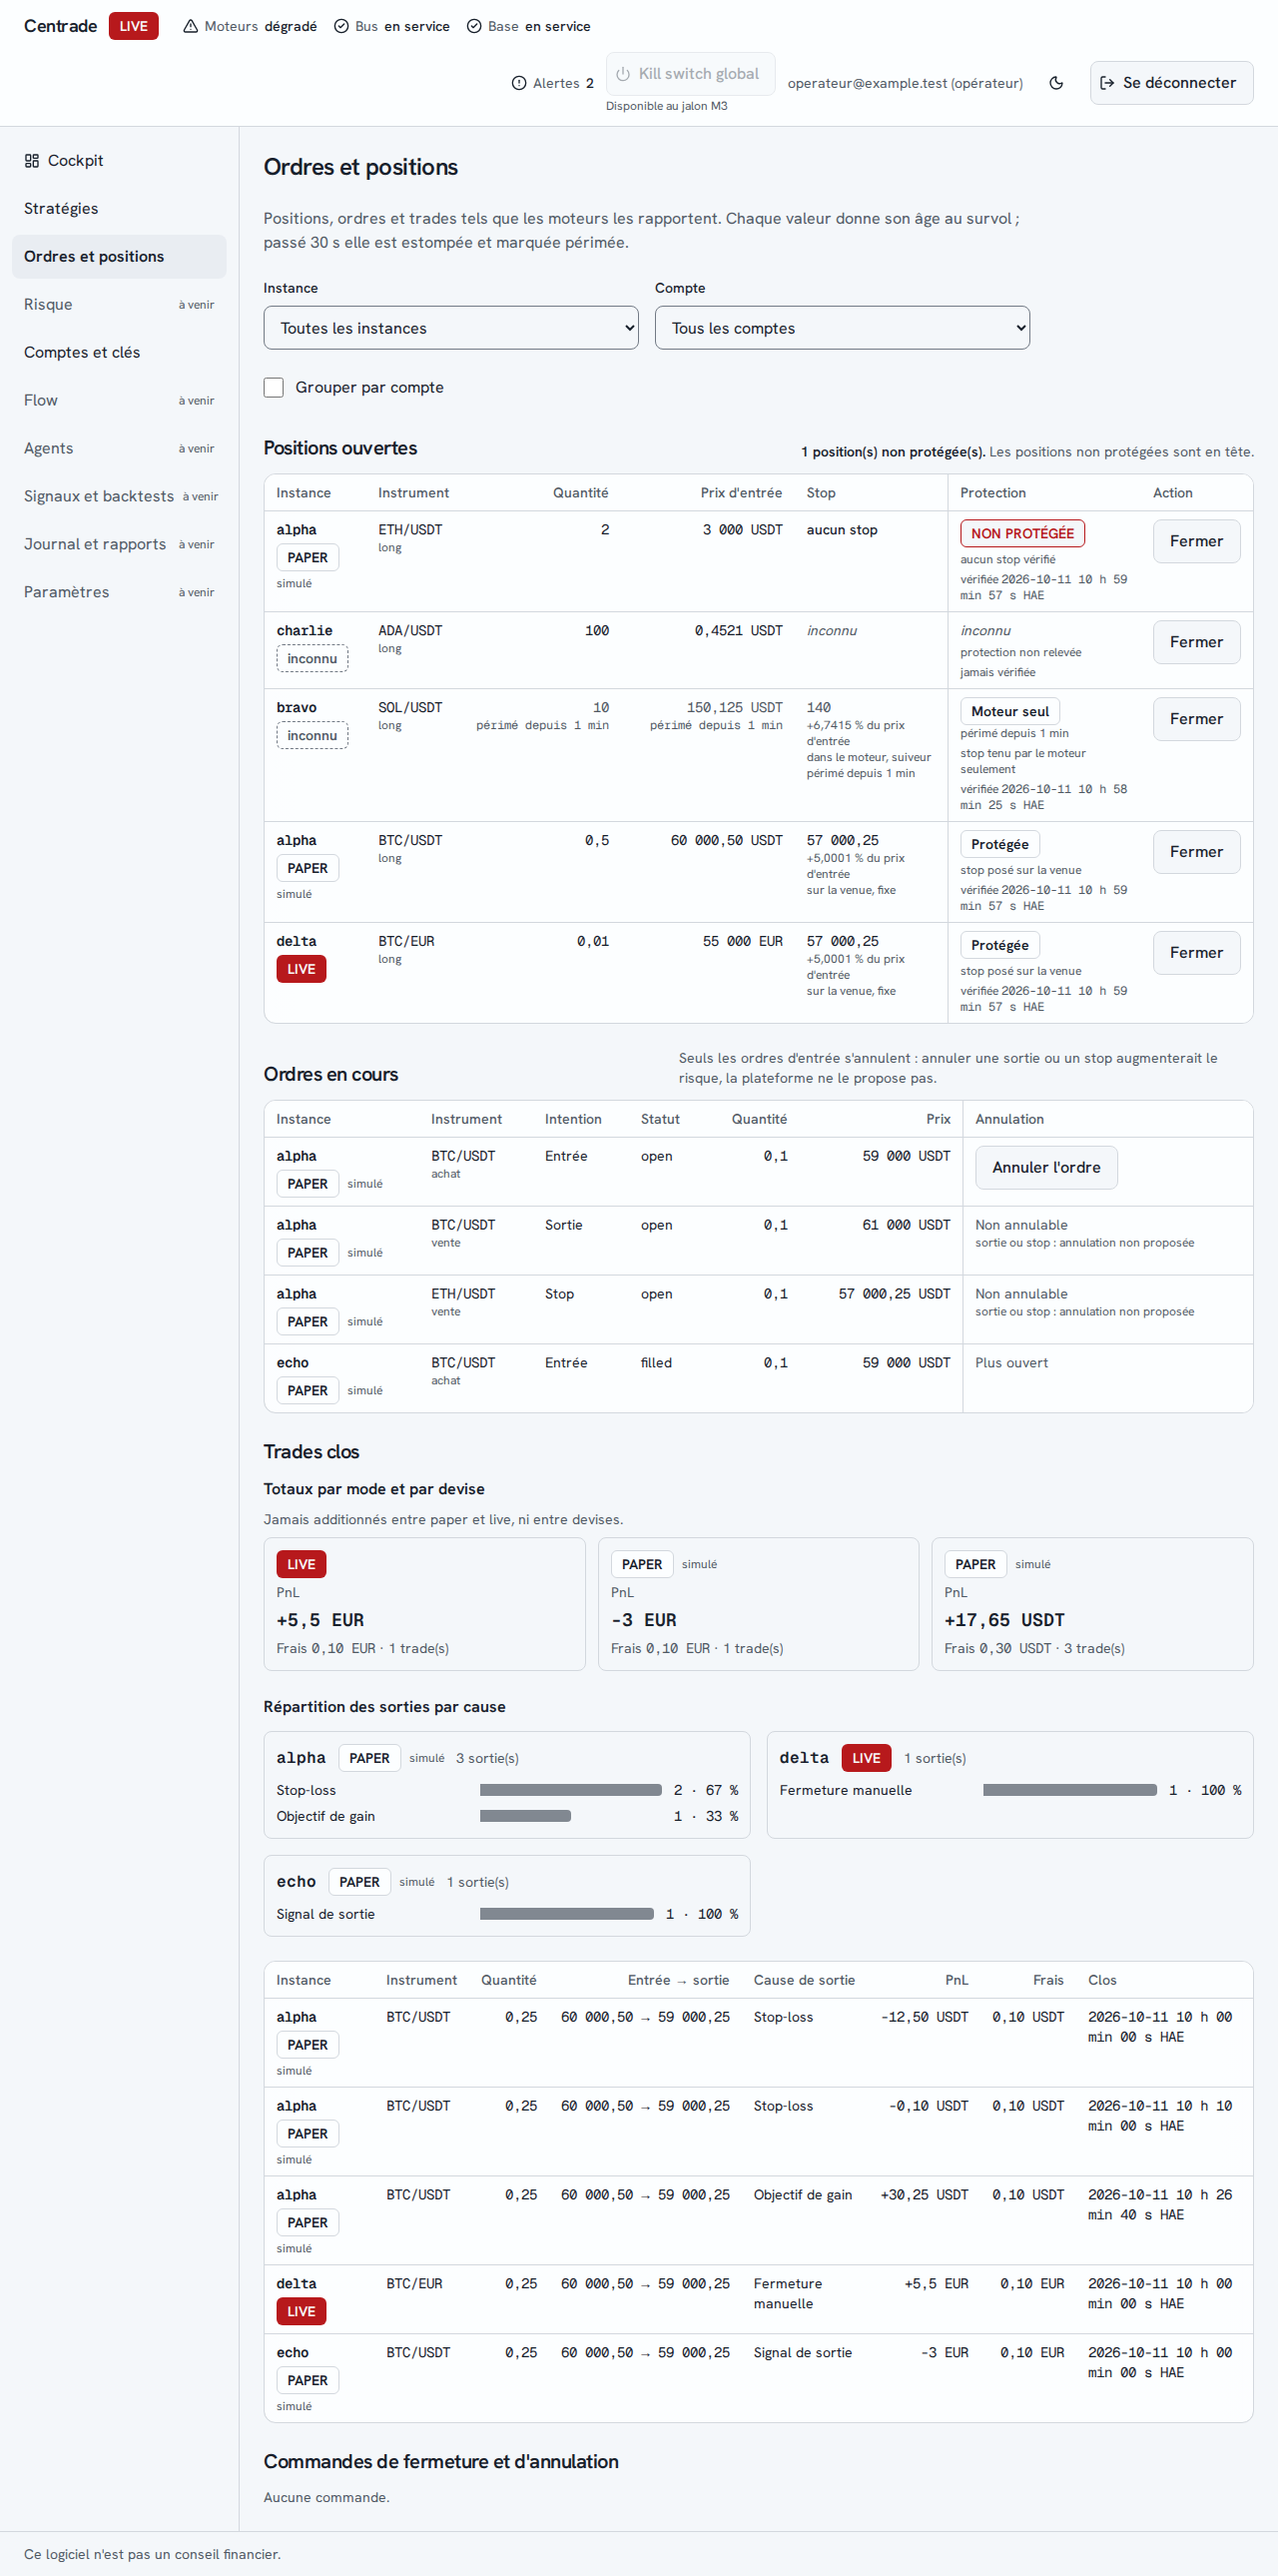
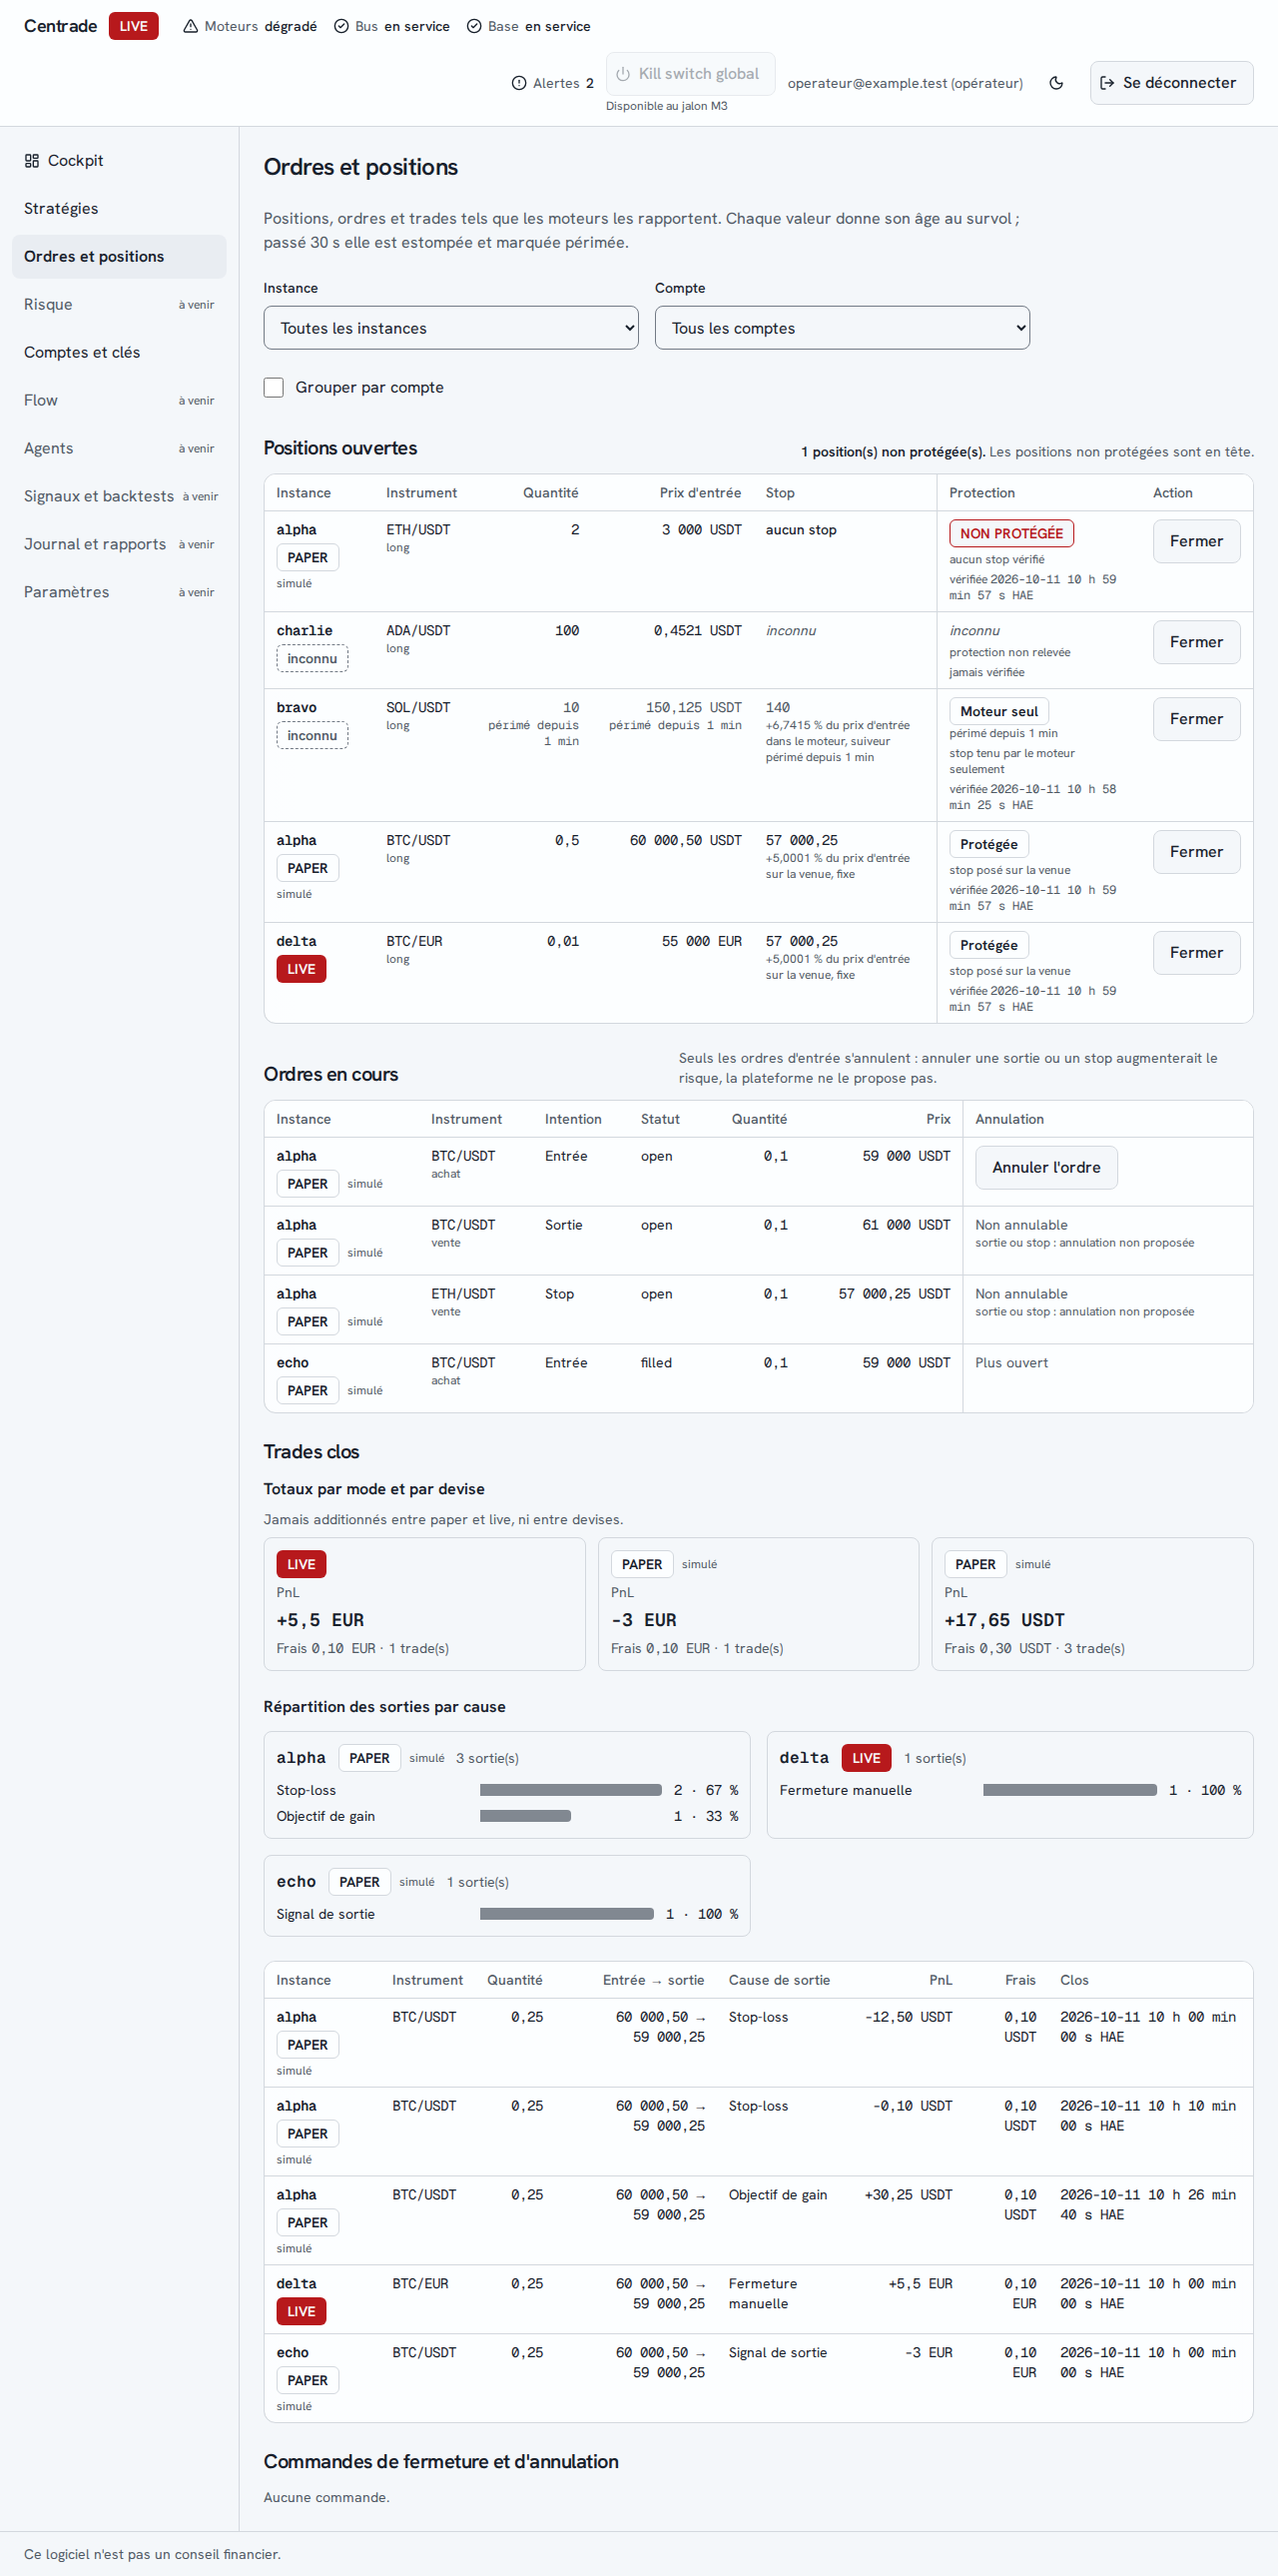
fix(m2): aucun montant ni devise coupé dans les tableaux en tablette

diff --git a/apps/web/src/screens/orders/positions-table.tsx b/apps/web/src/screens/orders/positions-table.tsx
@@ -11,7 +11,7 @@ import { InstanceCell, num, Ts } from "./cells";
 const t = fr.orders.positions;
 // L'état de protection et la fermeture ne sortent jamais du champ : ces colonnes restent collées à droite quand le tableau défile.
 const PIN = "sticky z-[1] bg-card";
-const PROT = `${PIN} min-w-44 border-l`;
+const PROT = `${PIN} min-w-36 border-l`;
 
 function Protection({ p, nowIso }: { p: Position; nowIso: string }) {
   // Une position non protégée s'affiche toujours : l'alarme n'est jamais estompée ni masquée par l'âge.
@@ -88,14 +88,14 @@ export function PositionsTable({
   onClose: (p: Position) => void;
 }) {
   return (
-    <TableShell label={t.list} dimmed={dimmed} minWidth="min-w-[46rem]">
+    <TableShell label={t.list} dimmed={dimmed} minWidth="min-w-0">
       <thead className={THEAD}>
         <tr>
           <th scope="col" className={TH}>{t.columns.instance}</th>
           <th scope="col" className={TH}>{t.columns.instrument}</th>
           <th scope="col" className={THR}>{t.columns.quantity}</th>
           <th scope="col" className={THR}>{t.columns.entry}</th>
-          <th scope="col" className={`${TH} min-w-32`}>{t.columns.stop}</th>
+          <th scope="col" className={`${TH} min-w-28`}>{t.columns.stop}</th>
           <th scope="col" className={`${TH} ${PROT} ${canAct ? "right-28" : "right-0"}`}>{t.columns.protection}</th>
           {canAct && <th scope="col" className={`${TH} ${PIN} right-0 w-28`}>{t.columns.action}</th>}
         </tr>
@@ -116,7 +116,7 @@ export function PositionsTable({
                 <ObservedValue mono value={num(p.quantity)} observedAt={p.observed_at} serverTime={nowIso} staleAfterMs={ENGINE_STALE_MS} className="justify-end" />
               </td>
               <td className={TDR}>
-                <ObservedValue mono value={p.entry_price === null ? "unknown" : `${num(p.entry_price)}\u00a0${p.currency}`} observedAt={p.observed_at} serverTime={nowIso} staleAfterMs={ENGINE_STALE_MS} className="justify-end" />
+                <ObservedValue mono value={p.entry_price === null ? "unknown" : `${num(p.entry_price)} ${p.currency}`} observedAt={p.observed_at} serverTime={nowIso} staleAfterMs={ENGINE_STALE_MS} className="justify-end" />
               </td>
               <td className={TD}>
                 <Stop p={p} nowIso={nowIso} />

diff --git a/apps/web/e2e/orders.spec.ts b/apps/web/e2e/orders.spec.ts
@@ -292,3 +292,25 @@ test("bureau (1280 px) : aucune position coupée, le tableau des trades tient da
   const trades = page.locator('[role="region"]').filter({ has: page.locator("tr[data-trade]") });
   expect(await trades.first().evaluate((el) => el.scrollWidth - el.clientWidth)).toBeLessThanOrEqual(0);
 });
+
+test("tablette (820 px) : aucun montant, prix ou devise coupé ; les trois tableaux tiennent sans défilement horizontal", async ({ page }) => {
+  await page.setViewportSize({ width: 820, height: 1180 });
+  await mockTrading(page);
+  await page.goto("/orders");
+  await expect(page.locator("tr[data-trade]").first()).toBeVisible();
+  const regions = page.locator('[role="region"]');
+  expect(await regions.count()).toBe(3);
+  for (const region of await regions.all()) {
+    const m = await region.evaluate((el) => ({ label: el.getAttribute("aria-label"), over: el.scrollWidth - el.clientWidth }));
+    expect(m.over, `${m.label} : défilement horizontal`).toBeLessThanOrEqual(0);
+  }
+  // Chaque cellule de nombre : le texte est entièrement dans la région.
+  const clipped = await page.evaluate(() => [...document.querySelectorAll('[role="region"] td.font-mono, [role="region"] td[class*="text-right"], [role="region"] th[class*="text-right"]')].filter((cell) => {
+    const range = document.createRange();
+    range.selectNodeContents(cell);
+    const t = range.getBoundingClientRect();
+    const r = cell.closest('[role="region"]')!.getBoundingClientRect();
+    return t.right > r.right + 1 || t.left < r.left - 1 || cell.scrollWidth > cell.clientWidth + 1;
+  }).map((c) => c.textContent));
+  expect(clipped).toEqual([]);
+});

diff --git a/apps/web/src/screens/orders/trades-section.tsx b/apps/web/src/screens/orders/trades-section.tsx
@@ -87,7 +87,7 @@ export function TradesSection({ trades, instances, nowIso, dimmed }: { trades: T
     <div className="flex flex-col gap-6" data-dimmed={dimmed || undefined}>
       <Totals trades={trades} instances={instances} nowIso={nowIso} />
       <Breakdowns trades={trades} instances={instances} nowIso={nowIso} />
-      <TableShell label={t.list} dimmed={dimmed} minWidth="min-w-[58rem]">
+      <TableShell label={t.list} dimmed={dimmed} minWidth="min-w-0">
         <thead className={THEAD}>
           <tr>
             <th scope="col" className={TH}>{t.columns.instance}</th>
@@ -114,7 +114,7 @@ export function TradesSection({ trades, instances, nowIso, dimmed }: { trades: T
               <td className={TD}>{causeLabel(x.exit_cause)}</td>
               <td className={TDR}>{pnl(x.pnl, x.currency)}</td>
               <td className={TDR}>
-                {num(x.fees)}&nbsp;{x.currency}
+                {num(x.fees)} {x.currency}
               </td>
               <td className={`${TD} font-mono`}>{when(x.closed_at)}</td>
             </tr>

diff --git a/apps/web/src/screens/orders/orders-table.tsx b/apps/web/src/screens/orders/orders-table.tsx
@@ -33,7 +33,7 @@ export function OrdersTable({
   onCancel: (o: Order) => void;
 }) {
   return (
-    <TableShell label={t.list} dimmed={dimmed} minWidth="min-w-[52rem]">
+    <TableShell label={t.list} dimmed={dimmed} minWidth="min-w-0">
       <thead className={THEAD}>
         <tr>
           <th scope="col" className={TH}>{t.columns.instance}</th>
@@ -69,7 +69,7 @@ export function OrdersTable({
                 {o.price === null ? (
                   <span className="font-sans text-muted-foreground">{t.noPrice}</span>
                 ) : (
-                  <ObservedValue mono value={`${num(o.price)}\u00a0${o.currency}`} observedAt={o.observed_at} serverTime={nowIso} staleAfterMs={ENGINE_STALE_MS} className="justify-end" />
+                  <ObservedValue mono value={`${num(o.price)} ${o.currency}`} observedAt={o.observed_at} serverTime={nowIso} staleAfterMs={ENGINE_STALE_MS} className="justify-end" />
                 )}
               </td>
               <td className={`${TD} ${PIN}`}>

diff --git a/apps/web/src/components/data-table.tsx b/apps/web/src/components/data-table.tsx
@@ -6,7 +6,7 @@ import { cn } from "@/lib/utils";
 export const TH = "px-3 py-2 text-left text-sm font-medium text-muted-foreground";
 export const THR = "px-3 py-2 text-right text-sm font-medium text-muted-foreground";
 export const TD = "px-3 py-2 align-top";
-export const TDR = "px-3 py-2 align-top text-right font-mono whitespace-nowrap";
+export const TDR = "px-3 py-2 align-top text-right font-mono";
 
 /**
  * Zone défilable d'un tableau : `tabIndex` pour que le défilement se fasse au clavier (WCAG 2.1.1).
